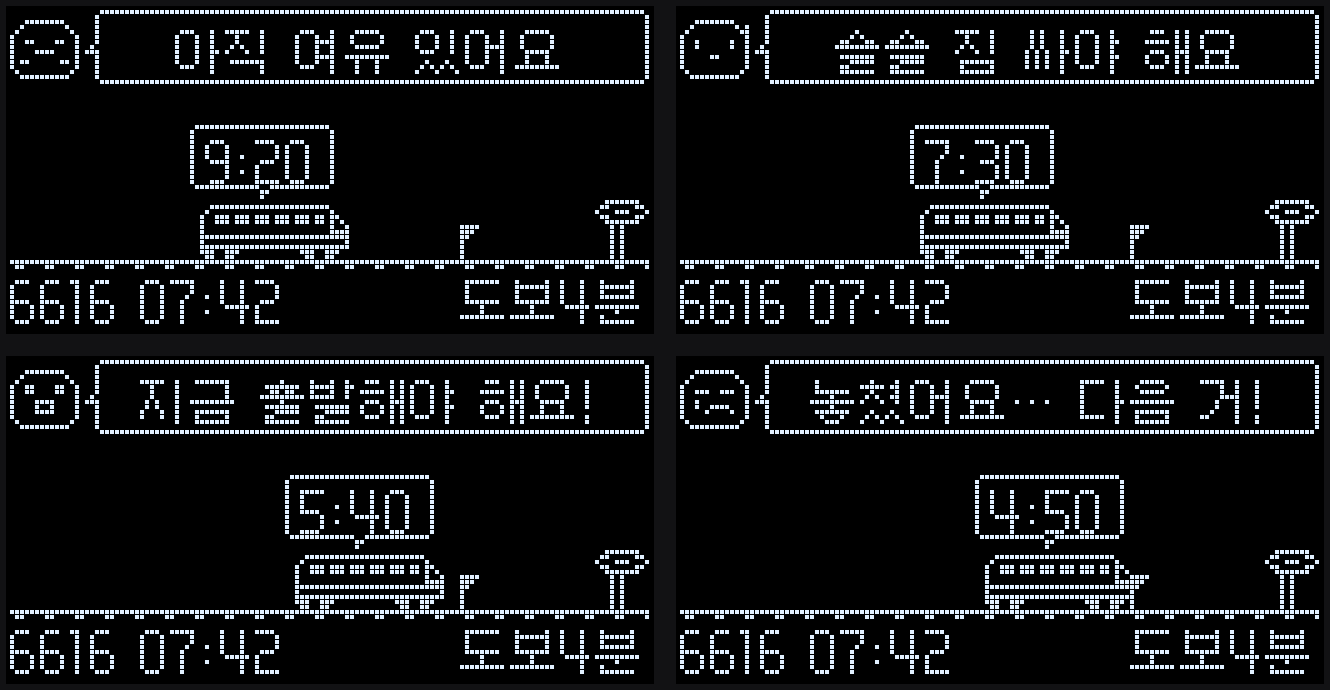
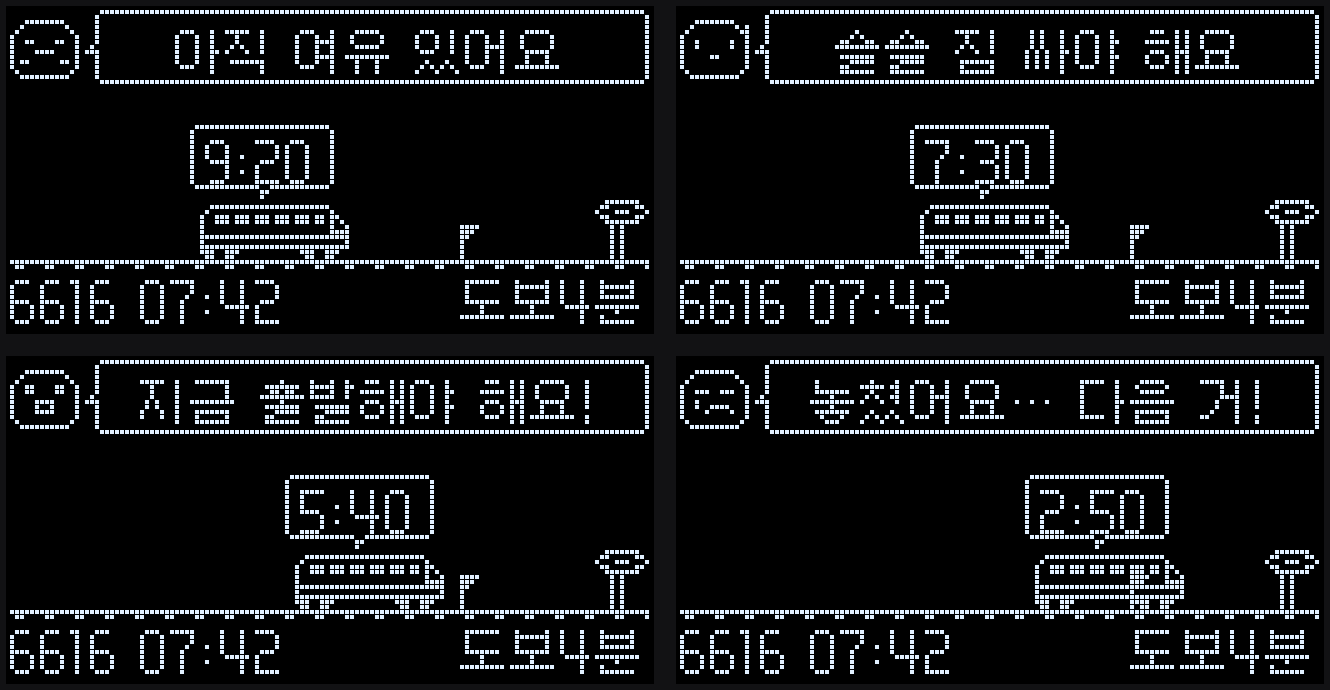
Fix bus review findings: preview run state, numeric strings, key masking
- preview.py: add the host's "run" state (leave line passed by < RUN_S),
  so the "missed" sample and the demo GIF match what the board shows
- BusSource: accept arrival times sent as strings, fall back to plateNo
  when vehId is missing, mask the key in API error messages

Changed region(s): [[0.7398, 0.6696, 0.894, 0.8826]]

diff --git a/tools/preview/preview.py b/tools/preview/preview.py
@@ -40,6 +40,7 @@ SMALL = GALMURI
 WALK_S = 4 * 60
 BUFFER_S = 60
 LEAVE_S = WALK_S + BUFFER_S          # 출발선: 도착 5분 전 (도보 4 + 여유 1)
+RUN_S = 120                          # 출발선을 넘겨도 이만큼은 "뛰면 가능" (host/commute.py 의 RUN_S)
 WINDOW_S = 16 * 60                   # 도로 왼쪽 끝 = 도착 16분 전
 RAIL_Y = 50
 STATION_X = 116                      # 버스 앞코가 닿는 자리
@@ -141,6 +142,7 @@ MESSAGES_BY_LANG = {
         "relax": "아직 여유 있어요",
         "pack": "슬슬 짐 싸야 해요",
         "go": "지금 출발해야 해요!",
+        "run": "지금 뛰면 가능해요!",
         "missed": "놓쳤어요… 다음 거!",
         "bottom_left": "{clock} 열차 타기",
         "walk": "도보4분",
@@ -150,6 +152,7 @@ MESSAGES_BY_LANG = {
         "relax": "Plenty of time",
         "pack": "Start packing",
         "go": "Leave now!",
+        "run": "Run, you'll make it!",
         "missed": "Missed it... next one!",
         "bottom_left": "{clock} bus",
         "walk": "Walk 4 min",
@@ -190,8 +193,10 @@ def bubble(d, x0, y0, x1, y1, tail):
 
 def state_for(leave_in):
     """나갈 때까지 남은 초 → 상태. host/commute.py 와 같은 기준."""
-    if leave_in < 0:
+    if leave_in < -RUN_S:
         return "missed"
+    if leave_in < 0:
+        return "run"
     if leave_in <= 60:
         return "go"
     if leave_in <= 180:
@@ -232,6 +237,8 @@ def render(arrive_in, train_clock, tick=0, state=None, bottom_left=None, bottom_
     leave_in = arrive_in - LEAVE_S
     state = state or state_for(leave_in)
     msg = msg if msg is not None else texts[state]
+    if state == "run":                     # 보드는 run 을 go 처럼 그린다 (문구만 다르다)
+        state = "go"
     bottom_left = bottom_left if bottom_left is not None else texts["bottom_left"].format(clock=train_clock)
     bottom_right = bottom_right if bottom_right is not None else texts["walk"]
 
@@ -396,7 +403,7 @@ def main():
 
     # 상태별 시안. 한글은 기존 파일 이름 그대로, 영어는 en_ 접두어로 따로 저장한다.
     shots = [(9 * 60 + 20, "1_여유", "en_1_plenty"), (7 * 60 + 30, "2_짐싸기", "en_2_pack"),
-             (5 * 60 + 40, "3_출발", "en_3_leave"), (4 * 60 + 50, "4_놓침", "en_4_missed")]
+             (5 * 60 + 40, "3_출발", "en_3_leave"), (2 * 60 + 50, "4_놓침", "en_4_missed")]
     langs = ("ko", "en") if args.lang == "all" else (args.lang,)
     for lang in langs:
         prefix = "" if lang == "ko" else "en_"
@@ -414,9 +421,9 @@ def main():
         sheet.save(OUT / f"{prefix}all.png")
         # 안내 화면 예시 (PC 가 보낸 N| 줄)
         to_screen(render_notice(MESSAGES_BY_LANG[lang]["wait"])).save(OUT / ("5_안내.png" if lang == "ko" else "en_5_waiting.png"))
-        # 데모: 도착 10분 전 → 4분 전 (출발선 5분을 지나도록)
+        # 데모: 도착 10분 전 → 2분 30초 전 (출발선 5분을 지나 '뛰면 가능', '놓침'까지)
         frames = []
-        for i, t in enumerate(range(10 * 60, 4 * 60 - 1, -6)):
+        for i, t in enumerate(range(10 * 60, 2 * 60 + 30 - 1, -6)):
             frames.append(to_screen(render(t, "07:42", tick=i, lang=lang, bottom_left="6616 07:42"), 4))
         frames[0].save(OUT / f"{prefix}demo.gif", save_all=True, append_images=frames[1:], duration=80, loop=0)
         print(lang, "ok", len(frames))

diff --git a/host/commute.py b/host/commute.py
@@ -821,7 +821,7 @@ class Frame:
                 and self.msg == other.msg)
 
 
-RUN_S = 120                   # 출발선을 넘겨도 이만큼은 "뛰면 가능" (걸어서 10분 → 뛰어서 8분쯤)
+RUN_S = 120                   # 출발선을 넘겨도 이만큼은 "뛰면 가능" (여유분을 다 쓰고 1~2분 서두르면 되는 구간)
 
 
 def state_for(leave_in):
@@ -1155,8 +1155,8 @@ class BusSource:
             return
         head = (body.get("response") or {}).get("msgHeader") or {}
         if str(head.get("resultCode")) not in ("0", "4"):       # 0 정상, 4 결과 없음
-            log(tr(f"버스 응답 오류: {head.get('resultCode')} {head.get('resultMessage')}",
-                   f"Bus API error: {head.get('resultCode')} {head.get('resultMessage')}"))
+            detail = self.cfg.mask(f"{head.get('resultCode')} {head.get('resultMessage')}").replace(key, "****")
+            log(tr(f"버스 응답 오류: {detail}", f"Bus API error: {detail}"))
             return
         rows = ((body.get("response") or {}).get("msgBody") or {}).get("busArrivalList") or []
         if isinstance(rows, dict):
@@ -1172,7 +1172,8 @@ class BusSource:
                 eta = self._seconds(row, n)
                 if eta is None:
                     continue
-                veh = str(row.get("vehId" + n) or "").strip()
+                # 차량 ID(없으면 차량 번호)로 같은 버스를 따라간다. 둘 다 없으면 순번(#1, #2)으로
+                veh = str(row.get("vehId" + n) or row.get("plateNo" + n) or "").strip()
                 no = f"{route}-{veh}" if veh else f"{route}#{n}"
                 trains.append(Train(no, now + timedelta(seconds=eta), label=route))
         trains.sort(key=lambda t: t.arrive)
@@ -1183,13 +1184,16 @@ class BusSource:
     @staticmethod
     def _seconds(row, n):
         """predictTimeSec(초) 가 있으면 그것, 없으면 predictTime(분) 을 초로. 둘 다 없으면 None."""
-        sec = row.get("predictTimeSec" + n)
-        if isinstance(sec, (int, float)):
-            return int(sec)
-        mins = row.get("predictTime" + n)
-        if isinstance(mins, (int, float)):
-            return int(mins) * 60
-        return None
+        def num(v):                    # 숫자로 오든 문자열("5")로 오든 받는다. 빈 값("")은 없음
+            try:
+                return int(float(v))
+            except (TypeError, ValueError):
+                return None
+        sec = num(row.get("predictTimeSec" + n))
+        if sec is not None:
+            return sec
+        mins = num(row.get("predictTime" + n))
+        return mins * 60 if mins is not None else None
 
 
 # ─────────────────────────────────────────────────────────────
